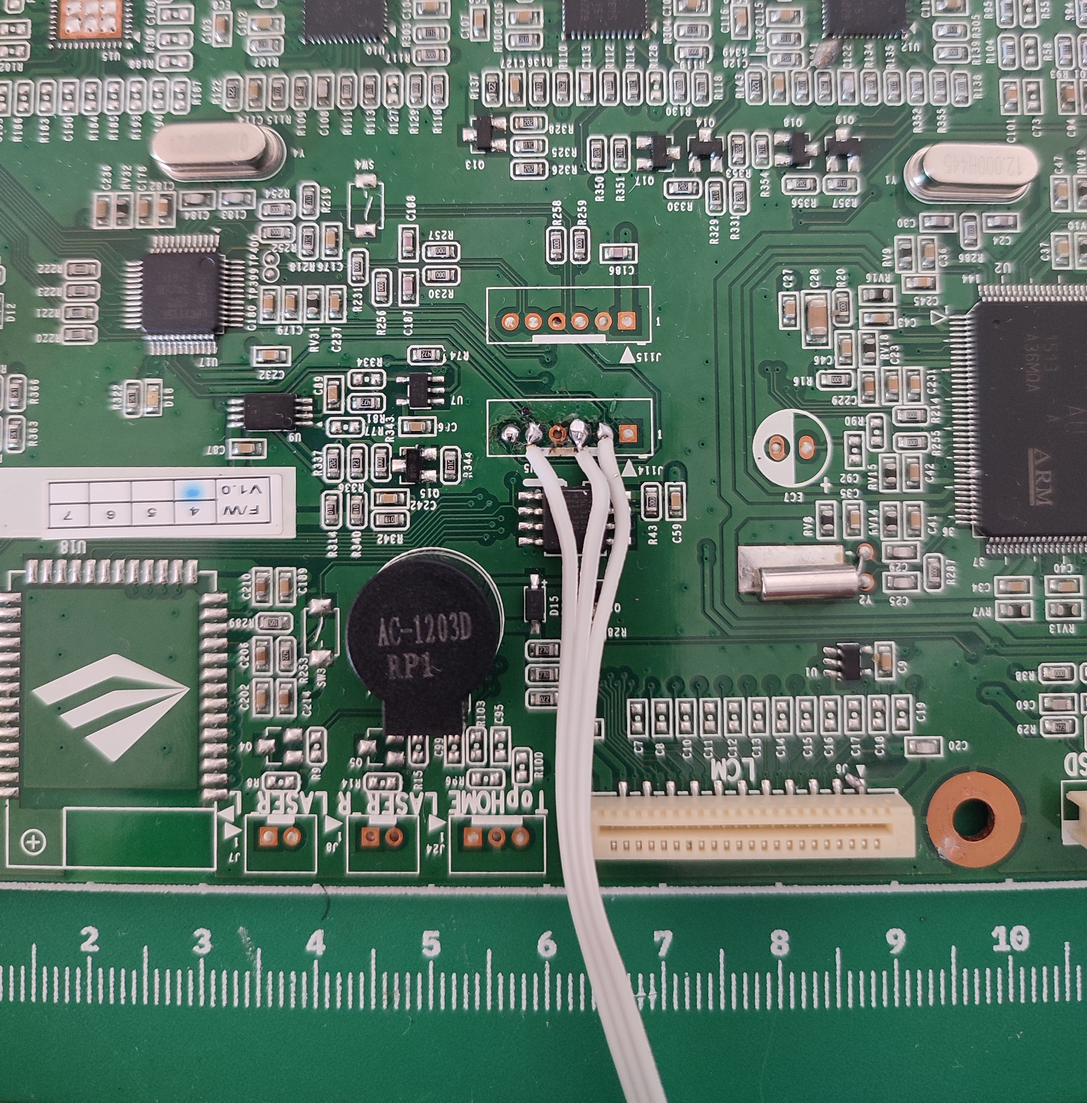
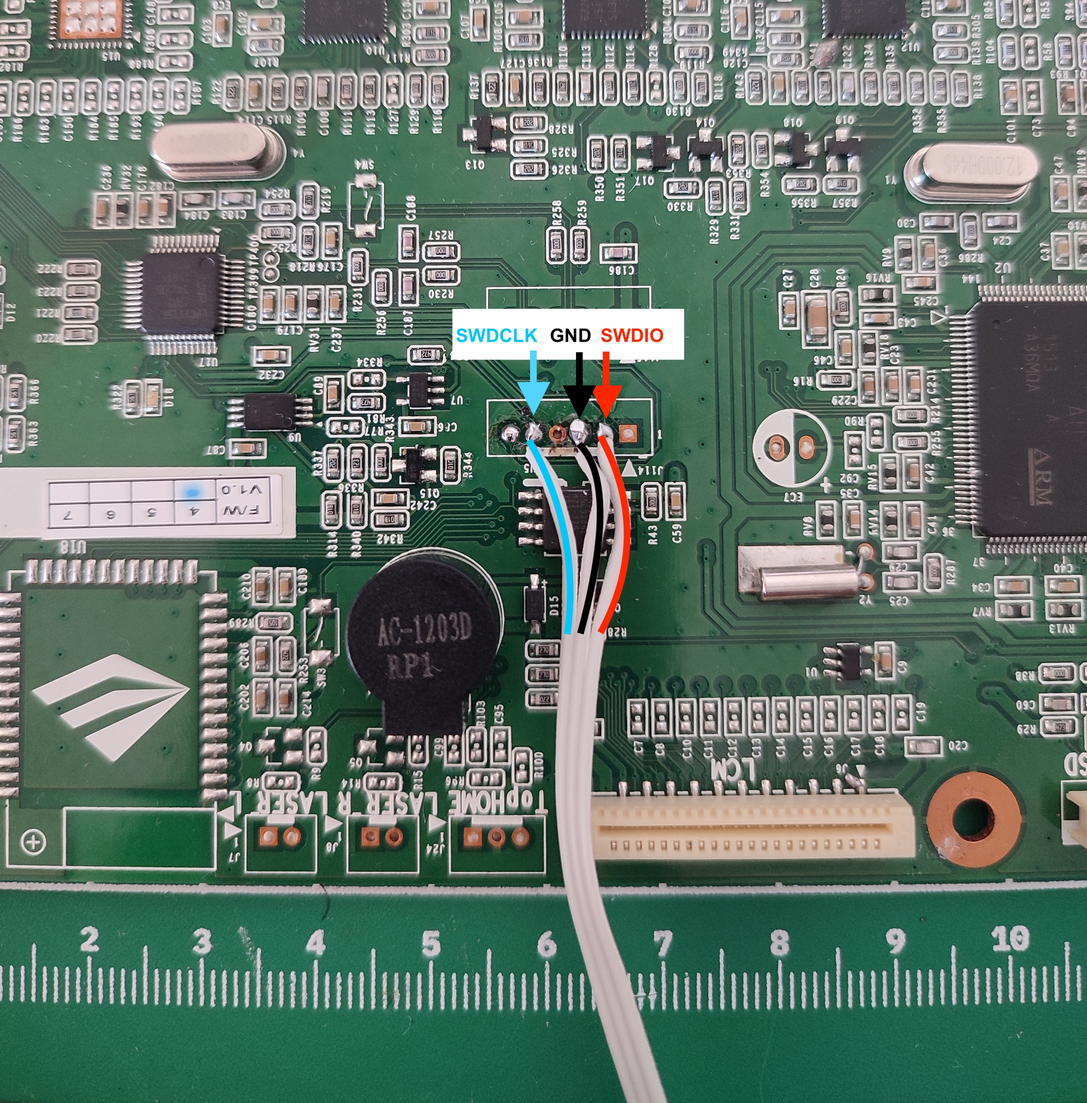
Improve dumping documentation links and images

Changed region(s): [[0.403, 0.281, 0.651, 0.5932]]

diff --git a/SOURCES.md b/SOURCES.md
@@ -12,71 +12,13 @@ I want to thank everyone who has contributed to this project knowingly or unknow
 
 ## Pinouts
 
-- **[Luc (Soliforum)](https://www.soliforum.com/post/131637/#p131637)** for most of the main board pinouts
-- **[Julialongtin (GitHub)](https://github.com/julialongtin/Davinci_Jr_Hacking)** for organizing the original pinouts
-- **[Pyr0ball (Soliforum)](https://www.soliforum.com/post/138269/#p138269)** for the sub board pinouts
-- **[Megatron (Soliforum)](https://www.soliforum.com/post/135347/#p135347)** for the hotend board flex connections
+- <a name="luc-main-board"></a> **[Luc (Soliforum)](https://www.soliforum.com/post/131637/#p131637)** for most of the main board pinouts
+- <a name="julialongtin-repo"></a> **[Julialongtin (GitHub)](https://github.com/julialongtin/Davinci_Jr_Hacking)** for organizing the original pinouts
+- <a name="pyr0ball-sub-board"></a> **[Pyr0ball (Soliforum)](https://www.soliforum.com/post/138269/#p138269)** for the sub board pinouts
+- <a name="megatron-hotend-flex"></a> **[Megatron (Soliforum)](https://www.soliforum.com/post/135347/#p135347)** for the hotend board flex connections
 - <a name="pyr0ball-schematic"></a> **[Pyr0ball (GitHub)](https://github.com/Duet3D/RepRapFirmware/issues/190#issuecomment-403314752)** for the partial schematic that enabled me to dump LPC1115 firmware
 
 ## Datasheets
 
-- [NXP Application Note AN10968](https://www.nxp.com/docs/en/application-note/AN10968.pdf)
-- [NXP User Manual UM10398](https://www.usr.cn/Uploads/Attach/201010/user.manual.lpc11xx.lpc11cxx.pdf) (3. party link due to NXP having the link behind a login, the original can be found here: [NXP UM10398](https://www.nxp.com/webapp/Download?colCode=UM10398&location=null))
-
-filler rows to test link
-
-filler rows to test link
-
-filler rows to test link
-
-filler rows to test link
-
-filler rows to test link
-
-filler rows to test link
-
-filler rows to test link
-
-filler rows to test link
-
-filler rows to test link
-
-filler rows to test link
-
-filler rows to test link
-
-filler rows to test link
-
-filler rows to test link
-
-filler rows to test link
-
-filler rows to test link
-
-filler rows to test link
-
-filler rows to test link
-
-filler rows to test link
-
-filler rows to test link
-
-filler rows to test link
-
-filler rows to test link
-
-filler rows to test link
-
-filler rows to test link
-
-filler rows to test link
-
-filler rows to test link
-
-filler rows to test link
-
-filler rows to test link
-
-filler rows to test link
-
-filler rows to test link
+- <a name="datasheet-nxp-an10968"></a> **[NXP Application Note AN10968](https://www.nxp.com/docs/en/application-note/AN10968.pdf)**
+- <a name="datasheet-nxp-um10398"></a> **[NXP User Manual UM10398](https://www.usr.cn/Uploads/Attach/201010/user.manual.lpc11xx.lpc11cxx.pdf)** (3. party link due to NXP having the link behind a login, the original can be found here: [NXP UM10398](https://www.nxp.com/webapp/Download?colCode=UM10398&location=null))

diff --git a/firmware/dumping.md b/firmware/dumping.md
@@ -52,8 +52,6 @@ Error: Error connecting DP: cannot read IDR
 
 If everything until this point is working, continue by finding the J114 connector on the board. It should be located between the MCU's, and next to the buzzer and the flash memory.
 
-![J114 connector](images/j114-connector.jpeg)
-
 Find the pin 1 (on my board, its square shaped and has a small '1' printed next to it). Then, solder the wires according to this table:
 
 | Board pin | Pin description | SWD pin | Pico pin |
@@ -67,7 +65,9 @@ Find the pin 1 (on my board, its square shaped and has a small '1' printed next 
 
 > _Huge thanks to pyr0ball for this schematic: [Pyr0ball (GitHub)](../SOURCES.md#pyr0ball-schematic)_
 
-![Pico after soldering](images/pico-soldered.jpg)
+| J114 connector with the cables soldered       | Pico with the cables soldered                     |
+| --------------------------------------------- | ------------------------------------------------- |
+| ![J114 connector](images/j114-connector.jpeg) | ![Pico after soldering](images/pico-soldered.jpg) |
 
 At this point, you should have a Pico with the SWD pins connected to the board. If you are using a different board, you can refer to the SWD pin column instead.
 
@@ -121,8 +121,8 @@ Here, we check for CRP (Code Readout Protection) before attempting to dump the f
 > Good for protecting IP, bad for reverse engineering or backing up the firmware.
 >
 > ![CRP Levels](images/crp-levels.png)
-> _Source: [NXP Application Note AN10968](https://www.nxp.com/docs/en/application-note/AN10968.pdf)_
-> More information can be found at: [UM10398](https://www.usr.cn/Uploads/Attach/201010/user.manual.lpc11xx.lpc11cxx.pdf) (3. party link due to NXP having the link behind a login, the original can be found here: [NXP UM10398](https://www.nxp.com/webapp/Download?colCode=UM10398&location=null))
+> _Source: [NXP Application Note AN10968](../SOURCES.md#datasheet-nxp-an10968)_
+> More information can be found at: [NXP User Manual UM10398](../SOURCES.md#datasheet-nxp-um10398)
 
 ```shell
 openocd -f interface/cmsis-dap.cfg -f target/lpc11xx.cfg -c "init" -c "halt" -c "mdw 0x2FC" -c "shutdown"
@@ -144,7 +144,7 @@ The part after the '0x000002fc' in the output is the CRP level, which indicates 
 | ---------------------------------------------------- | ---------------------------------------------- |
 | ![CRP Hex Location](images/crp-hex-location.png)     | ![CRP Magic Bytes](images/crp-magic-bytes.png) |
 
-> _Source: NXP Application note AN10968 (mentioned above)_
+> _Source: [NXP Application Note AN10968](../SOURCES.md#datasheet-nxp-an10968)_
 
 Here, i got 'e7fee7fe' as the CRP level, which is not a valid CRP level. This means the device is not protected by CRP, and the firmware can be dumped without any restrictions.
 
